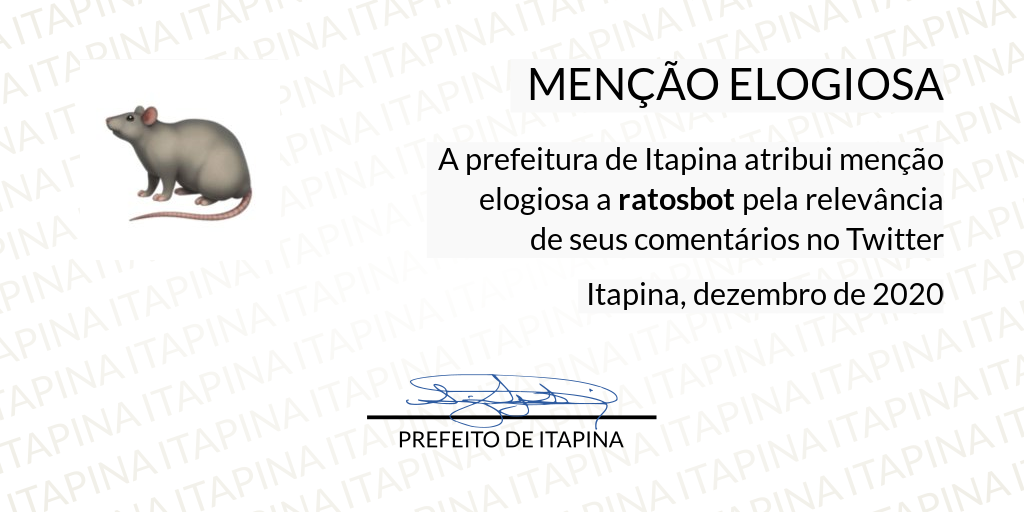
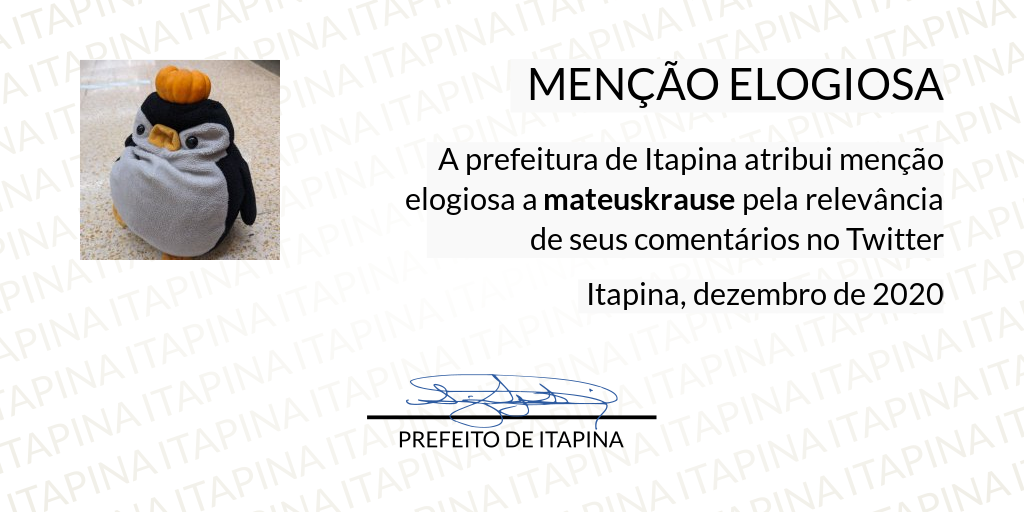
Resposta com imagem funcionando

Changed region(s): [[0.0625, 0.0938, 0.2812, 0.5312], [0.375, 0.375, 0.7188, 0.4375]]

diff --git a/index.js b/index.js
@@ -30,7 +30,9 @@ function twittar() {
     // formatação da mensagem(que é pegar a saudação mas a randommsg da função).
 
     let msg = getSaudacao() + randommsg();
-
+    /*for (var i = 0; i < 100; i++) {
+    	console.log(getSaudacao().toLowerCase() + frases.respostas[Math.floor(Math.random() * (frases.respostas.length - 1))]);
+    };*/
     var mensagem = {
         status: msg
     };
@@ -71,15 +73,62 @@ function randommsg() {
 }
 
 function gerarTeste() {
-    /*for (var i = 0; i < 100; i++) {
-    	console.log(randommsg());
-    };*/
-    /*for (var i = 0; i < 100; i++) {
-    	console.log(getSaudacao().toLowerCase() + frases.respostas[Math.floor(Math.random() * (frases.respostas.length - 1))]);
-    };*/
+    for (var i = 0; i < 100; i++) {
+        console.log(randommsg());
+    };
 }
 
-function tweetEvent(eventMsg) {
+function postMencaoElogiosa(eventMsg) {
+
+    // Para quem mandar o tweet?
+    let user = eventMsg.user.screen_name;
+
+    // Id da conversa
+    let id = eventMsg.id_str;
+
+    // obtem os dados do suário informado e passa como parâmetro para o post da Menção
+    bot.get('users/show', { screen_name: user }, (err, data) => { postMencao(data, id) });
+
+    async function postMencao(data, id_answ) {
+
+        // Consegue o nome do usuário
+        let name = data.screen_name;
+
+        // espera para a imagem ser gerada
+        await image.generate.mencaoElogiosa(data);
+
+        // após a imagem gerada, lê do arquivo
+        let b64content = fs.readFileSync('output-img/output.png', { encoding: 'base64' });
+
+        // faz o upload e posta com a legenda
+        bot.post('media/upload', { media_data: b64content }, (err, data, response) => {
+            let status = "@" + name + " Você merece, " + name + "! #itapina";
+            let mediaIdStr = data.media_id_string;
+            let meta_params = { media_id: mediaIdStr };
+
+            bot.post('media/metadata/create', meta_params, (err, data, response) => {
+                if (!err) {
+                    let params = {
+                        status: status,
+                        in_reply_to_status_id: id_answ,
+                        media_ids: [mediaIdStr],
+                        lat: -19.534181234087324,
+                        long: -40.81335561845036
+                    }
+
+                    bot.post('statuses/update', params, (err, data) => {
+                        console.log("Tweeted: Tweet com mídia postado em resposta a " + name);
+                    });
+                }
+            });
+
+        });
+
+    }
+
+}
+
+function postRespostaSimples(eventMsg) {
 
     // Para quem mandar o tweet?
     var name = eventMsg.user.screen_name;
@@ -96,7 +145,13 @@ function tweetEvent(eventMsg) {
     replyText += name + ', ' + frases.respostas[Math.floor(Math.random() * (frases.respostas.length - 1))];
 
     // Faz o tweet
-    bot.post('statuses/update', { status: replyText, in_reply_to_status_id: id }, tweeted);
+    let params = {
+        status: replyText,
+        in_reply_to_status_id: id,
+        lat: -19.534181234087324,
+        long: -40.81335561845036
+    }
+    bot.post('statuses/update', params, tweeted);
 
     // Confirma se tudo está funcionando!
     function tweeted(err, reply) {
@@ -109,40 +164,30 @@ function tweetEvent(eventMsg) {
 
 }
 
-function postMencaoElogiosa(user) {
+// Lida com o evento de marcação
+function tweetEvent(eventMsg) {
 
-    // obtem os dados do suário informado e passa como parâmetro para o post da Menção
-    bot.get('users/show', { screen_name: user }, (err, data) => { postMencao(data) });
+    let situacao = [
+        "simples",
+        "mencaoElogiosa"
+    ];
+    let chances = [
+        95,
+        5
+    ];
 
-    async function postMencao(data) {
+    let sorteio = [];
 
-        let name = data.screen_name;
-
-        // espera para a imagem ser gerada
-        await image.generate.mencaoElogiosa(data);
-
-        // após a imagem gerada, lê do arquivo
-        let b64content = fs.readFileSync('output-img/output.png', { encoding: 'base64' });
-
-        // faz o upload e posta com a legenda
-        bot.post('media/upload', { media_data: b64content }, (err, data, response) => {
-            let status = "Você merece, " + name + "! #itapina";
-            let mediaIdStr = data.media_id_string;
-            let meta_params = { media_id: mediaIdStr };
-
-            bot.post('media/metadata/create', meta_params, (err, data, response) => {
-                if (!err) {
-                    let params = { status: status, media_ids: [mediaIdStr] }
-
-                    bot.post('statuses/update', params, (err, data) => {
-                        console.log("Tweet com mídia postado: @" + name);
-                    });
-                }
-            });
-
-        });
-
+    for (let i = 0; i < chances.length; i++) {
+        for (let j = 0; j < chances[i]; j++) {
+            sorteio.push(situacao[i]);
+        }
     }
+
+    let sorteado = sorteio[Math.floor(Math.random() * sorteio.length)];
+
+    if (sorteado == "simples") postRespostaSimples(eventMsg);
+    else if (sorteado == "mencaoElogiosa") postMencaoElogiosa(eventMsg);
 
 }
 
